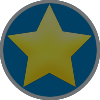
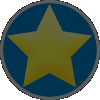
Fix node filtering on map

diff --git a/stylesheets/shared-package/default.css b/stylesheets/shared-package/default.css
@@ -3403,10 +3403,15 @@ a.nodeLabel:hover {
     display: inline-block;
 }
 
-.node-icon.node-complete    { background: url(/images/node-complete.png); /*! data-uri(/images/node-complete.png) */ }
-.node-icon.node-review      { background: url(/images/node-review.png); /*! data-uri(/images/node-review.png) */ }
-.node-icon.node-suggested   { background: url(/images/node-suggested.png); /*! data-uri(/images/node-suggested.png) */ }
-.node-icon.node-not-started { background: url(/images/node-not-started.png); /*! data-uri(/images/node-not-started.png) */ }
+.node-icon.node-complete    { background: url(/images/node-complete.png?glove);    /*! data-uri(/images/node-complete.png) */ }
+.node-icon.node-review      { background: url(/images/node-review.png?glove);      /*! data-uri(/images/node-review.png) */ }
+.node-icon.node-suggested   { background: url(/images/node-suggested.png?glove);   /*! data-uri(/images/node-suggested.png) */ }
+.node-icon.node-not-started { background: url(/images/node-not-started.png?glove); /*! data-uri(/images/node-not-started.png) */ }
+
+.nodeLabelFiltered .node-icon.node-complete    { background: url(/images/node-complete-faded.png?glove);    /*! data-uri(/images/node-complete-faded.png) */ }
+.nodeLabelFiltered .node-icon.node-review      { background: url(/images/node-review-faded.png?glove);      /*! data-uri(/images/node-review-faded.png) */ }
+.nodeLabelFiltered .node-icon.node-suggested   { background: url(/images/node-suggested-faded.png?glove);   /*! data-uri(/images/node-suggested-faded.png) */ }
+.nodeLabelFiltered .node-icon.node-not-started { background: url(/images/node-not-started-faded.png?glove); /*! data-uri(/images/node-not-started-faded.png) */ }
 
 .zoom10 .nodeLabel {
     position: relative;
@@ -3438,10 +3443,16 @@ a.nodeLabel:hover {
     width: 40px;
     height: 40px;
 }
-.zoom9 .nodeLabel.exercise .node-icon.node-complete    { background: url(/images/node-complete-40.png); /*! data-uri(/images/node-complete-40.png) */ }
-.zoom9 .nodeLabel.exercise .node-icon.node-review      { background: url(/images/node-review-40.png); /*! data-uri(/images/node-review-40.png) */ }
-.zoom9 .nodeLabel.exercise .node-icon.node-suggested   { background: url(/images/node-suggested-40.png); /*! data-uri(/images/node-suggested-40.png) */ }
-.zoom9 .nodeLabel.exercise .node-icon.node-not-started { background: url(/images/node-not-started-40.png); /*! data-uri(/images/node-not-started-40.png) */ }
+
+.zoom9 .nodeLabel.exercise .node-icon.node-complete    { background: url(/images/node-complete-40.png?glove);    /*! data-uri(/images/node-complete-40.png) */ }
+.zoom9 .nodeLabel.exercise .node-icon.node-review      { background: url(/images/node-review-40.png?glove);      /*! data-uri(/images/node-review-40.png) */ }
+.zoom9 .nodeLabel.exercise .node-icon.node-suggested   { background: url(/images/node-suggested-40.png?glove);   /*! data-uri(/images/node-suggested-40.png) */ }
+.zoom9 .nodeLabel.exercise .node-icon.node-not-started { background: url(/images/node-not-started-40.png?glove); /*! data-uri(/images/node-not-started-40.png) */ }
+
+.zoom9 .nodeLabelFiltered.exercise .node-icon.node-complete    { background: url(/images/node-complete-40-faded.png?glove);    /*! data-uri(/images/node-complete-40-faded.png) */ }
+.zoom9 .nodeLabelFiltered.exercise .node-icon.node-review      { background: url(/images/node-review-40-faded.png?glove);      /*! data-uri(/images/node-review-40-faded.png) */ }
+.zoom9 .nodeLabelFiltered.exercise .node-icon.node-suggested   { background: url(/images/node-suggested-40-faded.png?glove);   /*! data-uri(/images/node-suggested-40-faded.png) */ }
+.zoom9 .nodeLabelFiltered.exercise .node-icon.node-not-started { background: url(/images/node-not-started-40-faded.png?glove); /*! data-uri(/images/node-not-started-40-faded.png) */ }
 
 .zoom7 .nodeLabel.exercise .node-icon {
     width: 10px;
@@ -3450,10 +3461,16 @@ a.nodeLabel:hover {
 .zoom7 .nodeLabel.exercise .node-text {
     display: none;
 }
-.zoom7 .nodeLabel.exercise .node-icon.node-complete    { background: url(/images/node-complete-10.png); /*! data-uri(/images/node-complete-10.png) */ }
-.zoom7 .nodeLabel.exercise .node-icon.node-review      { background: url(/images/node-review-10.png); /*! data-uri(/images/node-review-10.png) */ }
-.zoom7 .nodeLabel.exercise .node-icon.node-suggested   { background: url(/images/node-suggested-10.png); /*! data-uri(/images/node-suggested-10.png) */ }
-.zoom7 .nodeLabel.exercise .node-icon.node-not-started { background: url(/images/node-not-started-10.png); /*! data-uri(/images/node-not-started-10.png) */ }
+
+.zoom7 .nodeLabel.exercise .node-icon.node-complete    { background: url(/images/node-complete-10.png?glove);    /*! data-uri(/images/node-complete-10.png) */ }
+.zoom7 .nodeLabel.exercise .node-icon.node-review      { background: url(/images/node-review-10.png?glove);      /*! data-uri(/images/node-review-10.png) */ }
+.zoom7 .nodeLabel.exercise .node-icon.node-suggested   { background: url(/images/node-suggested-10.png?glove);   /*! data-uri(/images/node-suggested-10.png) */ }
+.zoom7 .nodeLabel.exercise .node-icon.node-not-started { background: url(/images/node-not-started-10.png?glove); /*! data-uri(/images/node-not-started-10.png) */ }
+
+.zoom7 .nodeLabelFiltered.exercise .node-icon.node-complete    { background: url(/images/node-complete-10-faded.png?glove);    /*! data-uri(/images/node-complete-10-faded.png) */ }
+.zoom7 .nodeLabelFiltered.exercise .node-icon.node-review      { background: url(/images/node-review-10-faded.png?glove);      /*! data-uri(/images/node-review-10-faded.png) */ }
+.zoom7 .nodeLabelFiltered.exercise .node-icon.node-suggested   { background: url(/images/node-suggested-10-faded.png?glove);   /*! data-uri(/images/node-suggested-10-faded.png) */ }
+.zoom7 .nodeLabelFiltered.exercise .node-icon.node-not-started { background: url(/images/node-not-started-10-faded.png?glove); /*! data-uri(/images/node-not-started-10-faded.png) */ }
 
 .lte7 .zoom6 .nodeLabel .node-icon,
 .lte7 .zoom7 .nodeLabel.topic .node-icon,
@@ -3480,10 +3497,16 @@ a.nodeLabel:hover {
 .lte7 .zoom8 .nodeLabel .node-icon {
     margin-left: 18px;
 }
-.zoom8 .nodeLabel.exercise .node-icon.node-complete    { background: url(/images/node-complete-26.png); /*! data-uri(/images/node-complete-26.png) */ }
-.zoom8 .nodeLabel.exercise .node-icon.node-review      { background: url(/images/node-review-26.png); /*! data-uri(/images/node-review-26.png) */ }
-.zoom8 .nodeLabel.exercise .node-icon.node-suggested   { background: url(/images/node-suggested-26.png); /*! data-uri(/images/node-suggested-26.png) */ }
-.zoom8 .nodeLabel.exercise .node-icon.node-not-started { background: url(/images/node-not-started-26.png); /*! data-uri(/images/node-not-started-26.png) */ }
+
+.zoom8 .nodeLabel.exercise .node-icon.node-complete    { background: url(/images/node-complete-26.png?glove);    /*! data-uri(/images/node-complete-26.png) */ }
+.zoom8 .nodeLabel.exercise .node-icon.node-review      { background: url(/images/node-review-26.png?glove);      /*! data-uri(/images/node-review-26.png) */ }
+.zoom8 .nodeLabel.exercise .node-icon.node-suggested   { background: url(/images/node-suggested-26.png?glove);   /*! data-uri(/images/node-suggested-26.png) */ }
+.zoom8 .nodeLabel.exercise .node-icon.node-not-started { background: url(/images/node-not-started-26.png?glove); /*! data-uri(/images/node-not-started-26.png) */ }
+
+.zoom8 .nodeLabelFiltered.exercise .node-icon.node-complete    { background: url(/images/node-complete-26-faded.png?glove);    /*! data-uri(/images/node-complete-26-faded.png) */ }
+.zoom8 .nodeLabelFiltered.exercise .node-icon.node-review      { background: url(/images/node-review-26-faded.png?glove);      /*! data-uri(/images/node-review-26-faded.png) */ }
+.zoom8 .nodeLabelFiltered.exercise .node-icon.node-suggested   { background: url(/images/node-suggested-26-faded.png?glove);   /*! data-uri(/images/node-suggested-26-faded.png) */ }
+.zoom8 .nodeLabelFiltered.exercise .node-icon.node-not-started { background: url(/images/node-not-started-26-faded.png?glove); /*! data-uri(/images/node-not-started-26-faded.png) */ }
 
 .zoom6 .nodeLabel.exercise {
     display: none;

diff --git a/javascript/maps-package/views.js b/javascript/maps-package/views.js
@@ -156,26 +156,6 @@ KnowledgeMapViews.NodeMarker = Backbone.View.extend({
             this.el.removeClass("nodeLabelFiltered");
         }
 
-        // perf hack: instead of changing css opacity, set a whole new image
-        var img = this.el.find("img.node-icon");
-        var url = img.attr("src");
-
-        if (url.indexOf("power-mode") >= 0) {
-            // TODO: for now, we don't have image opacity effects on topics
-            // during search filtering
-            return;
-        }
-
-        // normalize
-        if (url.indexOf("faded") >= 0) {
-            url = url.replace("-faded.png", ".png");
-        }
-
-        if (this.filtered) {
-            img.attr("src", url.replace(".png", "-faded.png"));
-        } else {
-            img.attr("src", url);
-        }
     },
 
     setHighlight: function(highlight) {

diff --git a/tools/node-faded-png.rb b/tools/node-faded-png.rb
@@ -1,0 +1,23 @@
+require "chunky_png"
+
+Dir["../images/node-*.png"].each do |f|
+
+  next if f =~ /-faded\.png$/
+
+  puts f
+  image = ChunkyPNG::Image.from_file(f)
+
+  for y in 0...image.height do
+    for x in 0...image.width do
+      c = image.get_pixel(x, y)
+      c = (c & ~0xff) | ((c & 0xff) * 0.4).to_i
+      if c & 0xff != 0
+        c = ChunkyPNG::Color.compose(c, ChunkyPNG::Color::BLACK)
+      end
+      image.set_pixel(x, y, c)
+    end
+  end
+
+  image.save(f.gsub(/\.png$/, "-faded.png"))
+
+end
